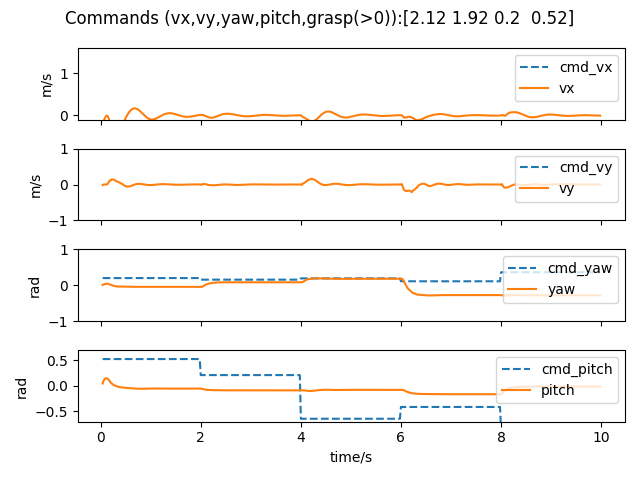
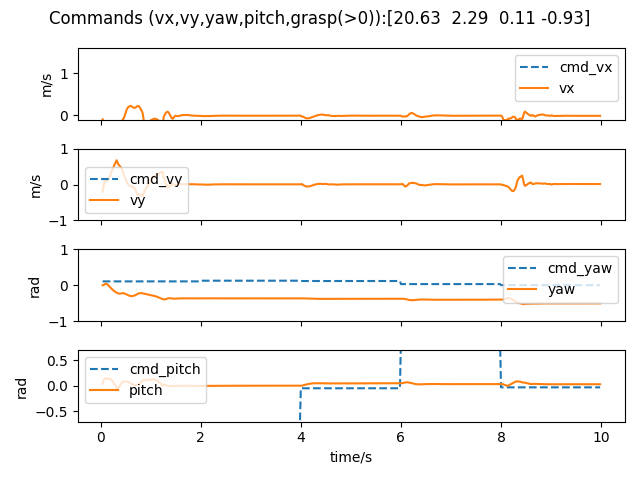
feat: reward and observations

diff --git a/legged_gym/legged_gym/envs/go1g/go1g.py b/legged_gym/legged_gym/envs/go1g/go1g.py
@@ -212,10 +212,12 @@ class Go1G(BaseTask):
         self.cur_goal_idx[next_flag] += 1
         self.reach_goal_timer[next_flag] = 0
 
-        self.reached_goal_ids = torch.norm(self.commands[:, :3]-self.ee_pos, dim=1) < self.cfg.env.next_goal_threshold
+        _target_position = self.commands[:,:2] + self.env_origins[:,:2]
+        self.target_position = torch.cat((_target_position, self.commands[:,2:3]), dim=1)
+        self.reached_goal_ids = torch.norm(self.target_position-self.ee_pos, dim=1) < self.cfg.env.next_goal_threshold
         self.reach_goal_timer[self.reached_goal_ids] += 1
 
-        self.target_pos_rel = self.commands[:, :3] - self.root_states[:, :3]
+        self.target_pos_rel = self.target_position - self.root_states[:, :3]
 
         norm = torch.norm(self.target_pos_rel, dim=-1, keepdim=True)
         target_vec_norm = self.target_pos_rel / (norm + 1e-5)
@@ -405,17 +407,18 @@ class Go1G(BaseTask):
             self.delta_yaw = self.target_yaw - self.yaw
             self.delta_pitch = self.target_pitch - self.pitch
         obs_buf = torch.cat((#skill_vector, 
-                            self.base_ang_vel  * self.obs_scales.ang_vel,   #[1,3]
-                            imu_obs,    #[1,2]
-                            self.delta_yaw[:, None],    #[1,1]
-                            self.delta_pitch[:, None],   #[1,1]
-                            self.commands,  #[1,4]
-                            (self.env_class != 17).float()[:, None], #[1,1]
-                            (self.env_class == 17).float()[:, None], #[1,1]
-                            self.reindex((self.dof_pos - self.default_dof_pos_all) * self.obs_scales.dof_pos),  #[1,13] contain no passive dof
-                            self.reindex(self.dof_vel * self.obs_scales.dof_vel),   #[1,13]
-                            self.reindex(self.action_history_buf[:, -1]),   #[1,13]
-                            self.reindex_feet(self.contact_filt.float()-0.5),   #[1,4]
+                            self.base_ang_vel  * self.obs_scales.ang_vel,   #3
+                            imu_obs,    #2
+                            self.delta_yaw[:, None],    #1
+                            self.delta_pitch[:, None],   #1
+                            self.target_position-self.ee_pos,  #3
+                            self.commands[:,-1:],  #1
+                            (self.env_class != 17).float()[:, None], #1
+                            (self.env_class == 17).float()[:, None], #1
+                            self.reindex((self.dof_pos - self.default_dof_pos_all) * self.obs_scales.dof_pos),  #13 contain no passive dof
+                            self.reindex(self.dof_vel * self.obs_scales.dof_vel),   #13
+                            self.reindex(self.action_history_buf[:, -1]),   #13
+                            self.reindex_feet(self.contact_filt.float()-0.5),   #4
                             ),dim=-1)
         priv_explicit = torch.cat((self.base_lin_vel * self.obs_scales.lin_vel,
                                    0 * self.base_lin_vel,
@@ -590,7 +593,6 @@ class Go1G(BaseTask):
         self.commands[env_ids, 0] = torch_rand_float(self.command_ranges["target_x"][0], self.command_ranges["target_x"][1], (len(env_ids), 1), device=self.device).squeeze(1)
         self.commands[env_ids, 1] = torch_rand_float(self.command_ranges["target_y"][0], self.command_ranges["target_y"][1], (len(env_ids), 1), device=self.device).squeeze(1)
         self.commands[env_ids, 2] = torch_rand_float(self.command_ranges["target_z"][0], self.command_ranges["target_z"][1], (len(env_ids), 1), device=self.device).squeeze(1)
-        self.commands[env_ids, :3] += self.env_origins[env_ids]
         self.commands[env_ids, 3] = torch_rand_float(-1, 1,(len(env_ids), 1), device=self.device).squeeze(1)
         # if self.cfg.commands.heading_command:
         #     self.commands[env_ids, 3] = torch_rand_float(self.command_ranges["heading"][0], self.command_ranges["heading"][1], (len(env_ids), 1), device=self.device).squeeze(1)
@@ -1289,25 +1291,30 @@ class Go1G(BaseTask):
 
     ################## parkour rewards ##################
 
-    # def _reward_tracking_goal_vel(self):
-    #     norm = torch.norm(self.target_pos_rel, dim=-1, keepdim=True)
-    #     target_vec_norm = self.target_pos_rel / (norm + 1e-5)
-    #     cur_vel = self.root_states[:, 7:9]
-    #     rew = torch.minimum(torch.sum(target_vec_norm * cur_vel, dim=-1), self.commands[:, 0]) / (self.commands[:, 0] + 1e-5)
-        # return rew
+    def _reward_tracking_goal_vel(self):
+        norm = torch.norm(self.target_pos_rel[:,:2], dim=-1, keepdim=True)
+        target_vec_norm = self.target_pos_rel[:,:2] / (norm + 1e-5)
+        cur_vel = self.root_states[:, 7:9]
+        vel_proj = torch.sum(target_vec_norm * cur_vel, dim=-1)  # project velocity to the target direction
+        rew = torch.minimum(vel_proj, torch.ones_like(vel_proj)*self.cfg.commands.vx_max) / (torch.ones_like(vel_proj)*self.cfg.commands.vx_max + 1e-5)
+        # print(f"rew_tracking_goal_vel:{rew}")
+        return rew
 
     def _reward_tracking_goal_pos(self):
         # Tracking of goal position
-        ee_error = torch.sum(torch.square(self.commands[:, :3] - self.ee_pos), dim=1)
+        ee_error = torch.sum(torch.square(self.target_position - self.ee_pos), dim=1)
         rew = torch.exp(-ee_error/self.cfg.rewards.tracking_sigma)
+        # print(f"rew_tracking_goal_pos:{rew}")
         return rew
     
     def _reward_tracking_yaw(self):
         rew = torch.exp(-torch.abs(self.target_yaw - self.yaw))
+        # print(f"rew_tracking_yaw:{rew}")
         return rew
 
     def _reward_tracking_pitch(self):
         rew = torch.exp(-torch.abs(self.target_pitch - self.pitch))
+        # print(f"rew_tracking_pitch:{rew}")
         return rew
     
     def _reward_tracking_gripper(self):

diff --git a/legged_gym/legged_gym/envs/go1g/go1g_config.py b/legged_gym/legged_gym/envs/go1g/go1g_config.py
@@ -88,6 +88,7 @@ class Go1GRoughCfg( LeggedRobotCfg ):
         num_observations = n_proprio + n_scan + history_len*n_proprio + n_priv_latent + n_priv #n_scan + n_proprio + n_priv #187 + 47 + 5 + 12 
 
         next_goal_threshold = 0.1
+
     class control( LeggedRobotCfg.control ):
         # PD Drive parameters:
         control_type = 'P'
@@ -114,9 +115,10 @@ class Go1GRoughCfg( LeggedRobotCfg ):
     class rewards( LeggedRobotCfg.rewards ):
         class scales:
             # tracking rewards
+            tracking_goal_vel = 1.5
             tracking_goal_pos = 1.5
-            tracking_yaw = 1.5  # 0.5
-            tracking_pitch = 1.5  # 0.5
+            tracking_yaw = 0.5  # 0.5
+            tracking_pitch = 0.5  # 0.5
             tracking_gripper = 0.5
             # regularization rewards
             lin_vel_z = -1.0
@@ -132,7 +134,7 @@ class Go1GRoughCfg( LeggedRobotCfg ):
             feet_stumble = -1
             feet_edge = -1
 
-        tracking_sigma = 0.5 # tracking reward = exp(-error^2/sigma)  0.2
+        tracking_sigma = 0.2 # tracking reward = exp(-error^2/sigma)  0.2
         soft_dof_pos_limit = 0.9
         base_height_target = 0.25
         # class scales( LeggedRobotCfg.rewards.scales ):
@@ -167,12 +169,13 @@ class Go1GRoughCfg( LeggedRobotCfg ):
     class commands( LeggedRobotCfg.commands):
         num_commands = 4 # target_x, target_y, target_z, gripper close
         class max_ranges:
-            target_x = [0.5, 1.5] # min max [m]
-            target_y = [-0.5, 0.5]   # min max [m]
-            target_z = [0, 0.5]    # min max [m]
+            target_x = [1, 2] # min max [m]
+            target_y = [-1, 1]   # min max [m]
+            target_z = [0, 0.3]    # min max [m]
         lin_vel_clip = 0.2
         ang_clip = 0.05
-        
+        vx_max = 0.5
+
 class Go1GRoughCfgPPO( LeggedRobotCfgPPO ):
     class algorithm( LeggedRobotCfgPPO.algorithm ):
         entropy_coef = 0.01

diff --git a/legged_gym/legged_gym/scripts/play.py b/legged_gym/legged_gym/scripts/play.py
@@ -179,12 +179,12 @@ def play(args):
         # store data for plot
         cur_time = env.episode_length_buf[env.lookat_id].item() / 50
         time_hist.append(cur_time)
-        cmd_hist.append(env.commands[env.lookat_id, :].tolist())
+        cmd_hist.append((env.commands[env.lookat_id, :]).tolist())
         cur_state = env.root_states[env.lookat_id, 7:9].tolist() #base_lin_vel?
         cur_state.append(env.yaw[env.lookat_id].tolist())
         cur_state.append(env.pitch[env.lookat_id].tolist())
         state_hist.append(cur_state)
-        print("time:", cur_time, 
+        print("----------\ntime:", cur_time, 
               "\ncmd:", env.commands[env.lookat_id, :].tolist(),
               "\nee_pos:", env.ee_pos[env.lookat_id, :].tolist(),
               "\nbase_pos:", env.root_states[env.lookat_id, :3].tolist(),
